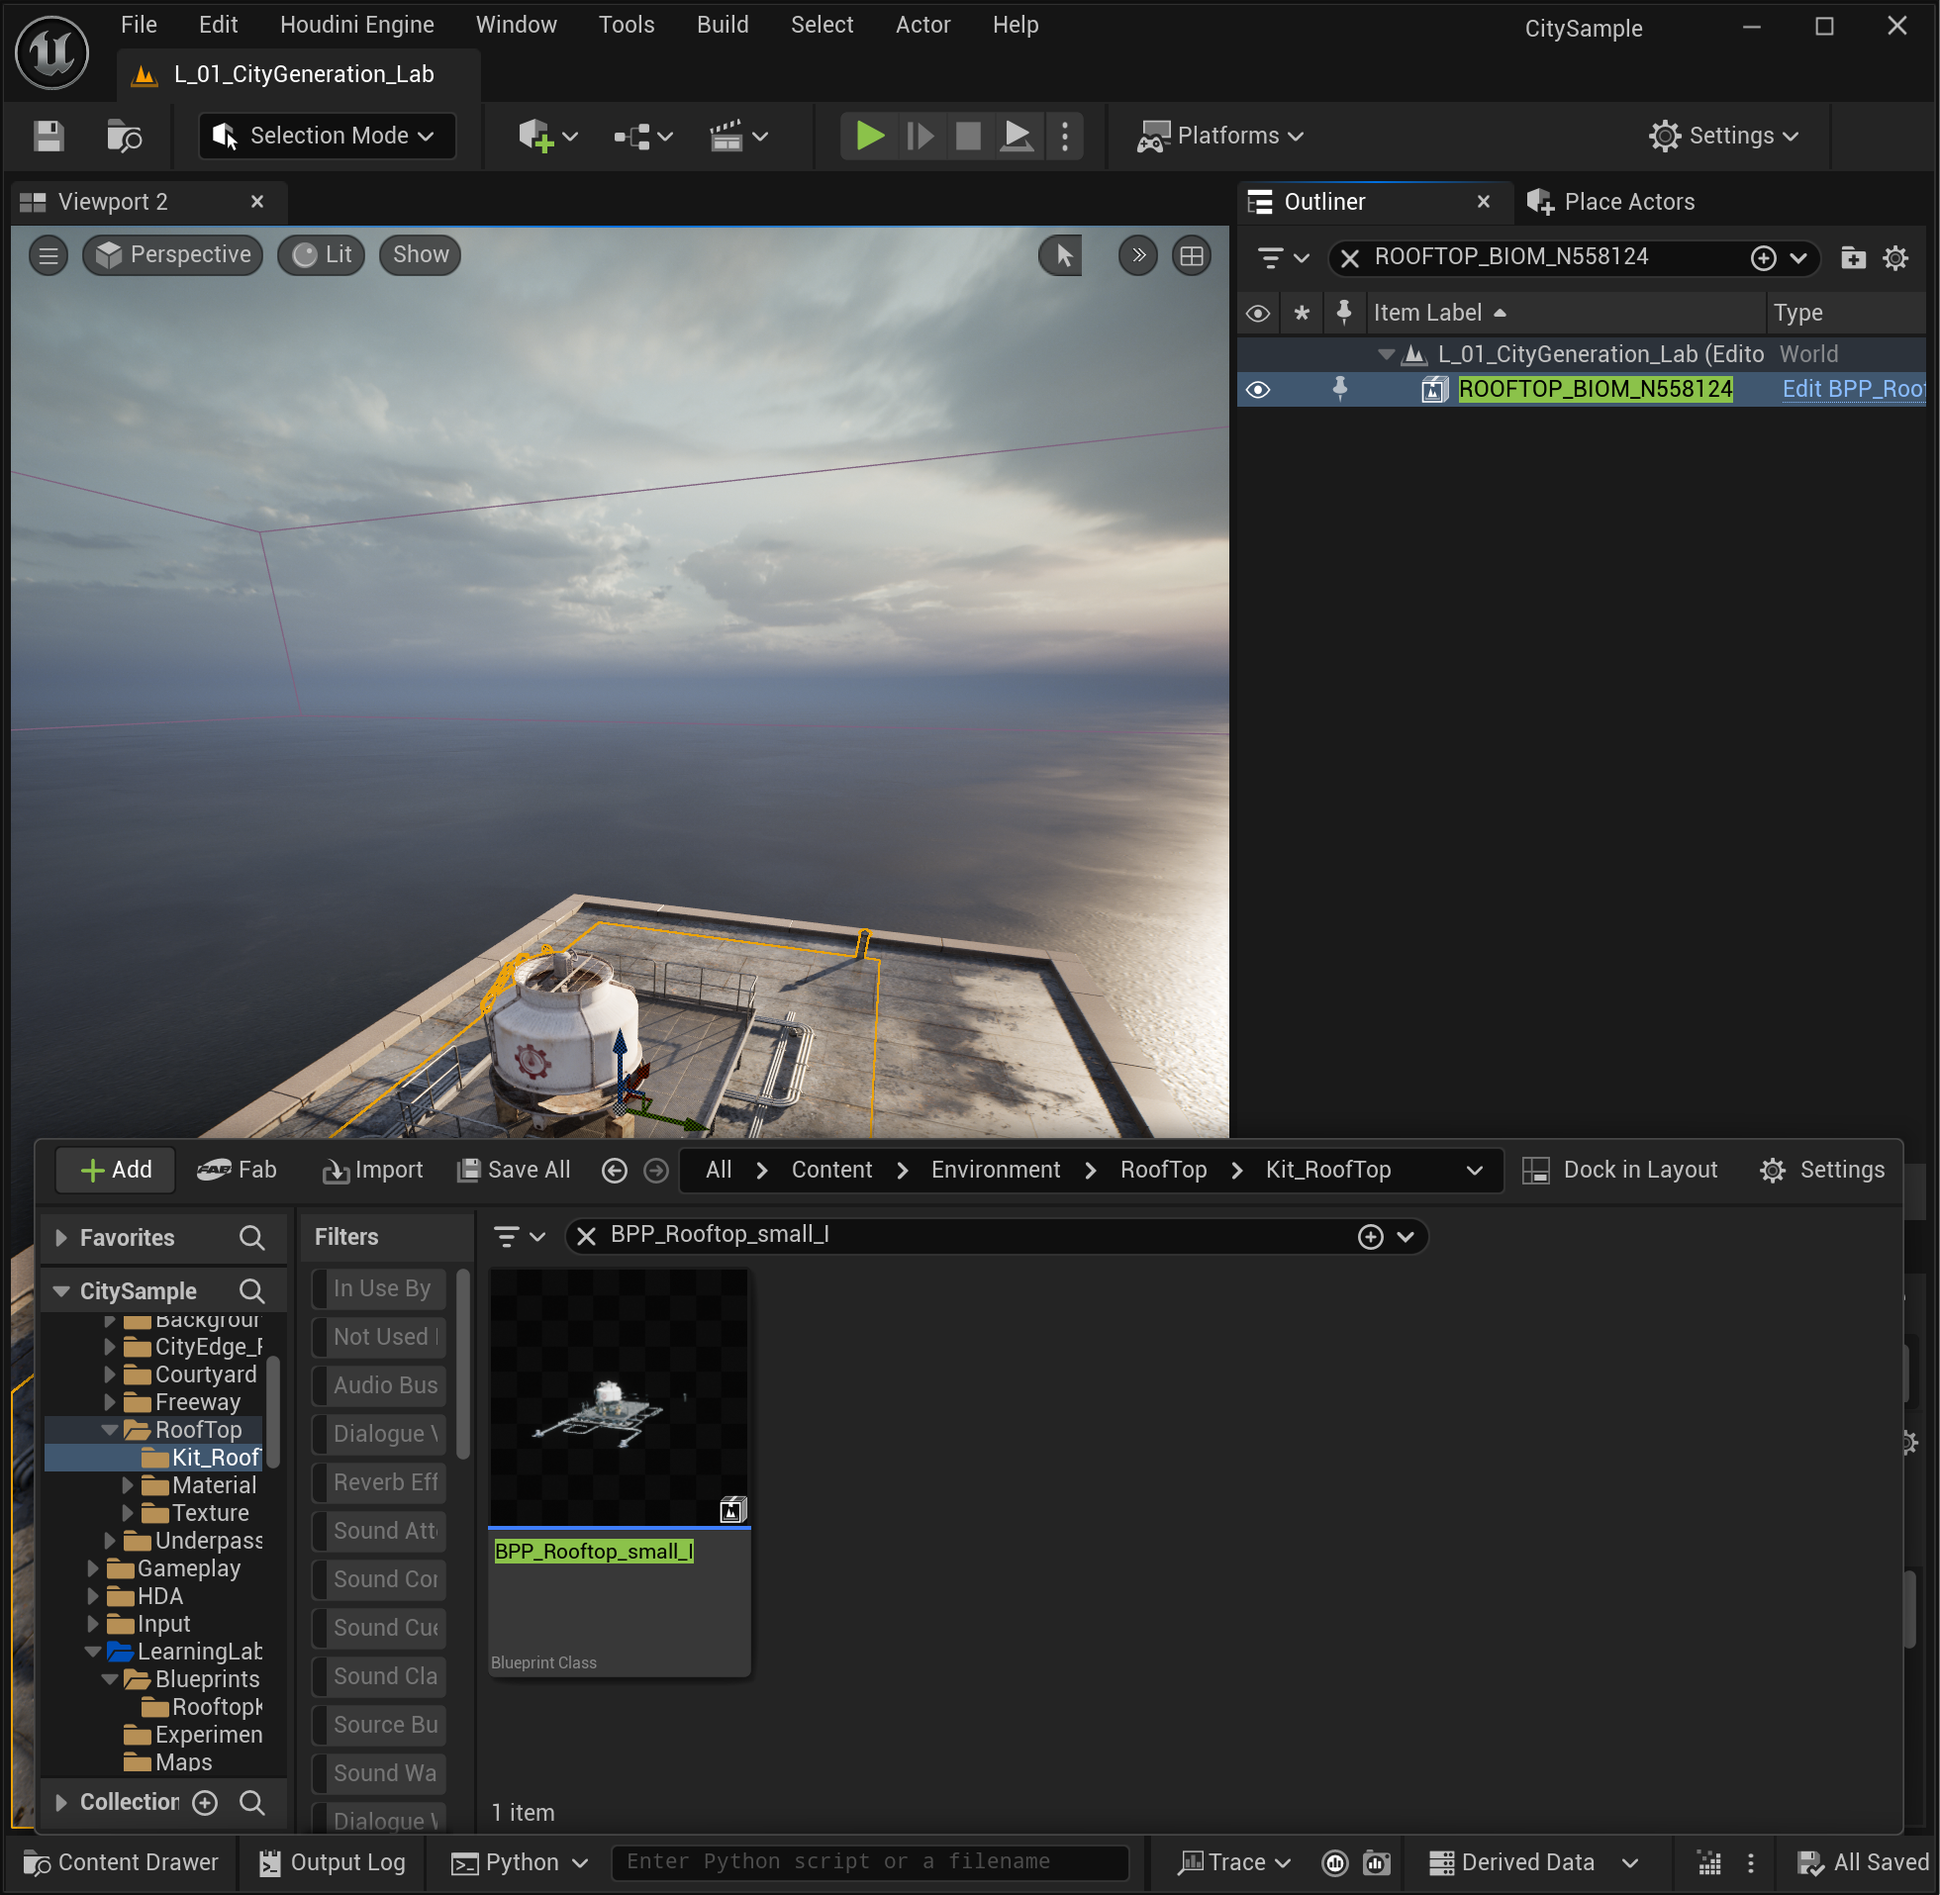
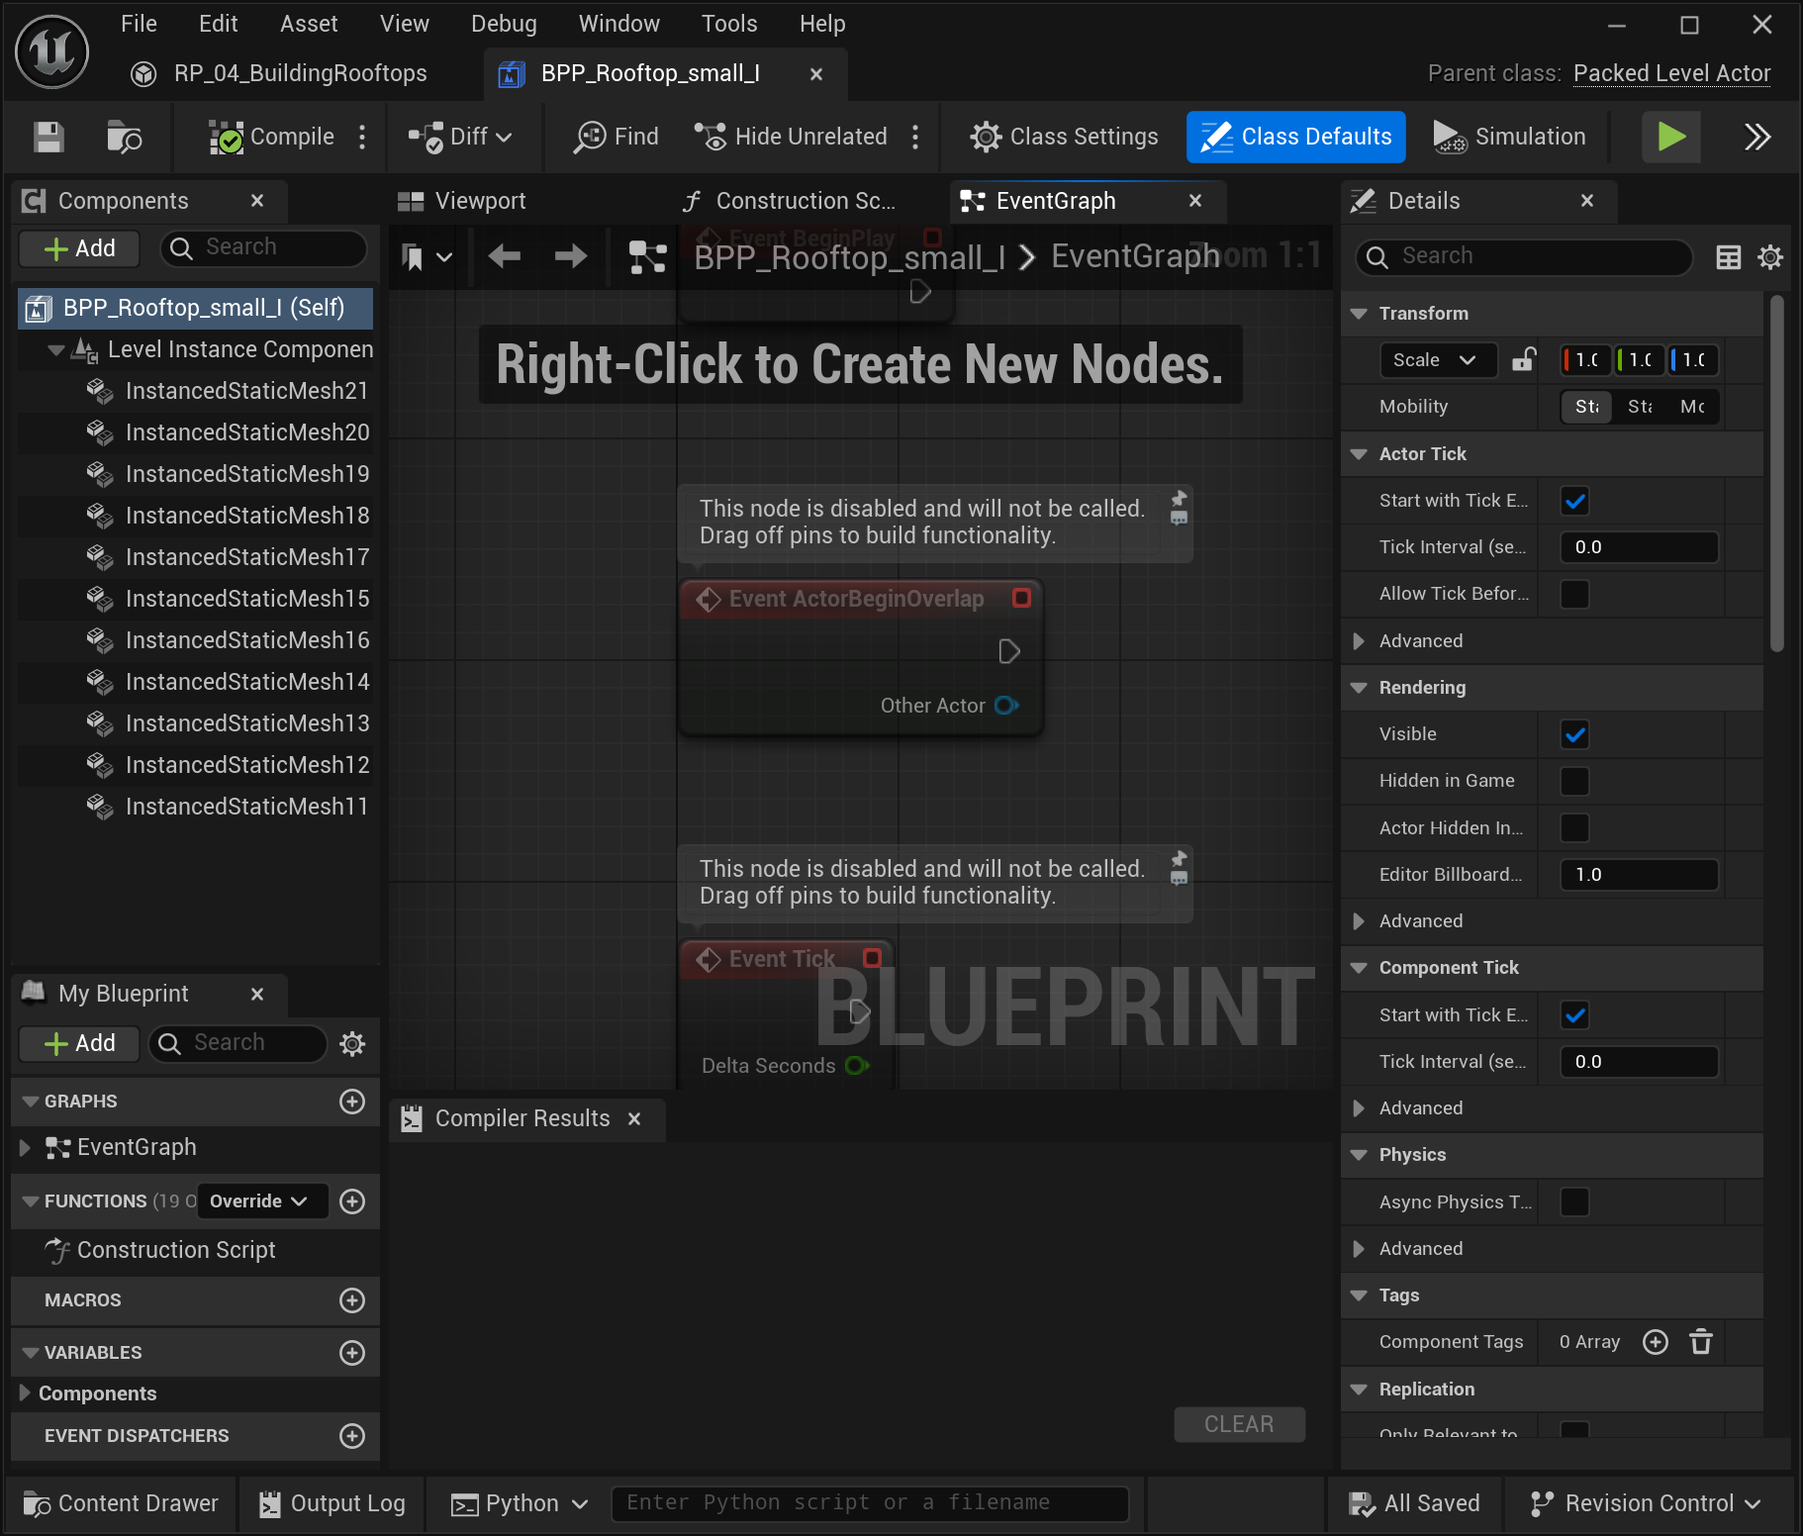
Finalize main Obsidian note and rooftop override images

diff --git a/Notes/CitySample学习笔记.md b/Notes/CitySample学习笔记.md
@@ -731,6 +731,8 @@ ROOFTOP_BIOM_N558124
 
 映射方向不能反。左侧表示点云原本想生成的对象，右侧表示实验中实际替换成的对象。两边也都不能保持 `None`。
 
+![[assets/CitySample/15-override-objects-map.png]]
+
 ### 第六步：先 Report，再 Generate
 
 先运行 Report，确认筛选链路仍然只得到一个 Rooftop Biome 点：
@@ -742,6 +744,8 @@ Spawn Blueprint                → Instance count = 1
 ```
 
 确认数量后再清理旧生成结果并执行 Generate。最终 Outliner 中 Actor 名仍是 `ROOFTOP_BIOM_N558124`，但它的实际类已经变为 `BPP_Lab_Rooftop_01`，三个自定义水箱会按原点的 Transform 正确落在 `147001` 的屋顶上。
+
+![[assets/CitySample/16-custom-rooftop-generated.png]]
 
 ## 4.4 原理总结
 

diff --git a/README.md b/README.md
@@ -15,7 +15,7 @@
 - 创建自定义 Packed Level Actor 屋顶套件，并通过 `Override Objects Map` 替换原始 Rooftop Blueprint；
 - 记录 Bounding Box 在模块级过滤时切坏完整建筑的原因。
 
-![原始 Rooftop Kit 生成结果](Notes/assets/CitySample/11-rooftop-biome-on-building.png)
+![自定义 Rooftop Kit 替换后的生成结果](Notes/assets/CitySample/16-custom-rooftop-generated.png)
 
 ## 仓库结构
 
